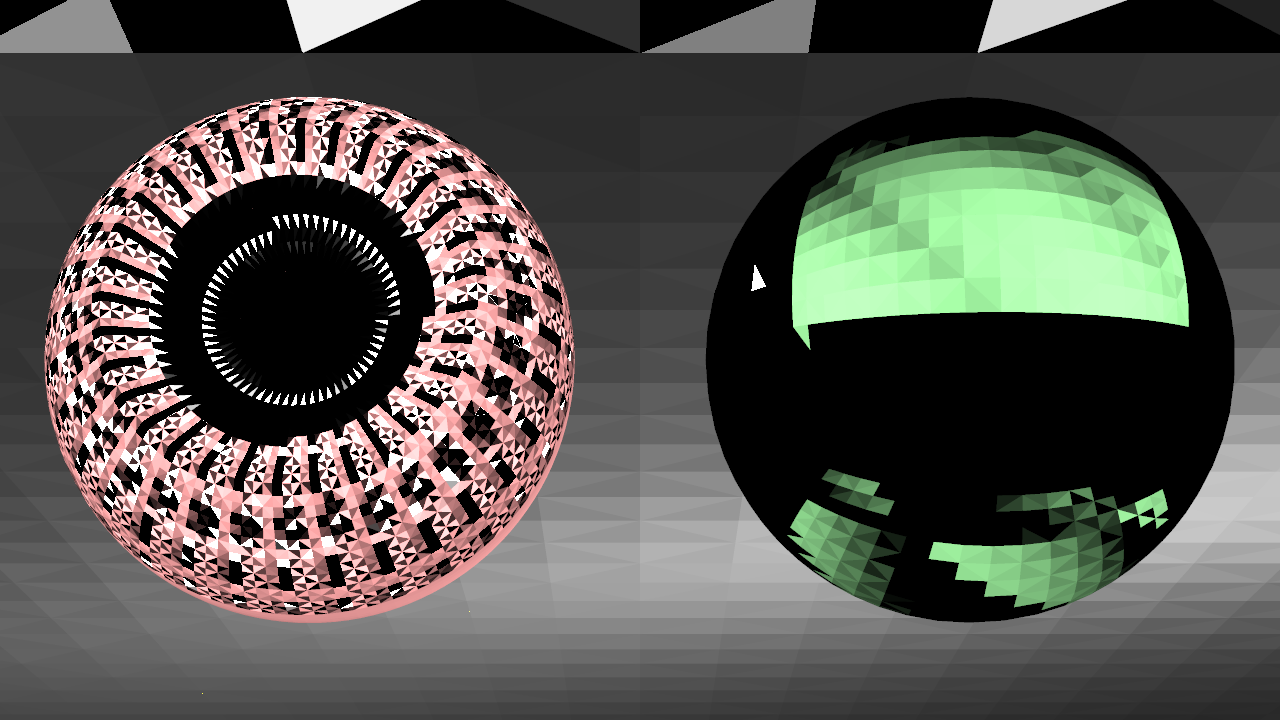
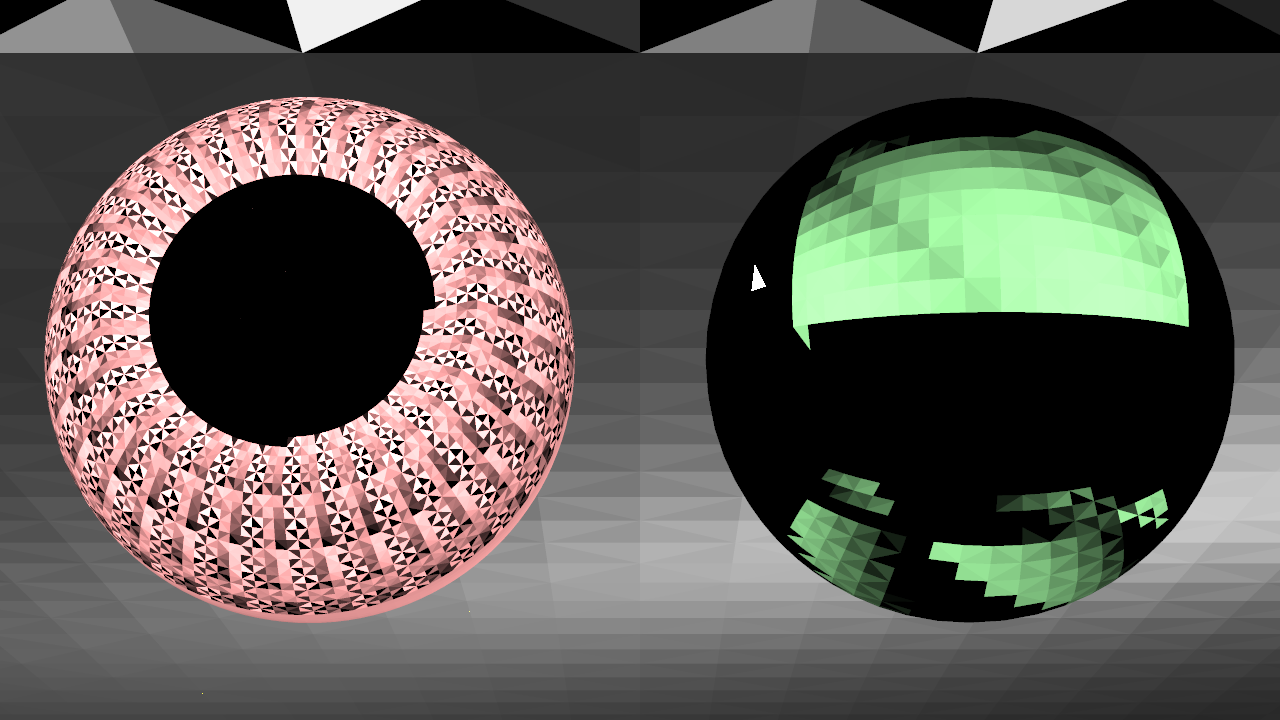
solo diffuse

diff --git a/src/raytrace.cpp b/src/raytrace.cpp
@@ -102,6 +102,9 @@ ym::vec4f compute_color(const ybvh::scene* bvh, const yobj::scene* scn, ym::ray3
 
   auto intersection = ybvh::intersect_scene(bvh, ray, false);
 
+
+//  ym::ray3f r = ym::ray3f(ym::transform_ray(ym::to_frame(scn->instances[intersection.iid]->xform()),ray));
+
   ym::vec4f c = ym::vec4f(0,0,0,0);
 
   if(intersection){
@@ -120,11 +123,11 @@ ym::vec4f compute_color(const ybvh::scene* bvh, const yobj::scene* scn, ym::ray3
 //        continue;
 //      else {
         auto In = light->mat->ke / (r * r);
-        auto v = normalize(p-ray.o);
-        auto h = ym::normalize((v+l));
-        auto ns = (mat->rs) ? 2 / (mat->rs * mat->rs) - 2 : 1e6f;
-        c.xyz() += mat->kd * In * max(.0f, dot(n, l))
-                 + mat->ks * In * pow(max(.0f,dot(n,h)),ns);
+//        auto v = normalize(ray.o-p);
+//        auto h = ym::normalize((v+l));
+//        auto ns = (mat->rs) ? 2 / (mat->rs * mat->rs) - 2 : 1e6f;
+        c.xyz() += mat->kd * In * max(.0f, dot(n, l));
+//                 + mat->ks * In * pow(max(.0f,dot(n,h)),ns);
 //      }
     }
   }
